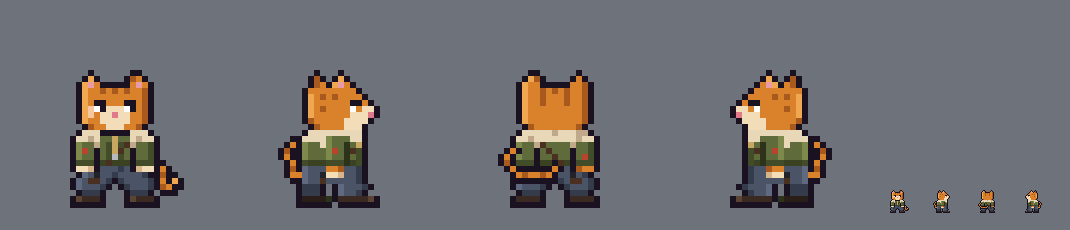
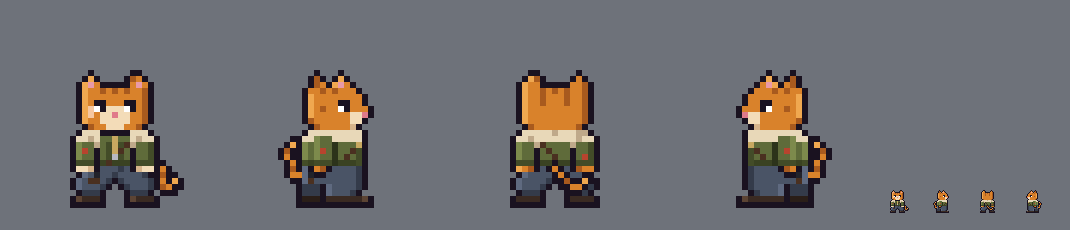
Mercenary cat: side face, paw and legs fixed; back-view tail moved
Claude-Session: https://claude.ai/code/session_01WZGEuQ1NEBVidT9MSQSZ2z

diff --git a/docs/art/cat-merc/crew/tools/cat.py b/docs/art/cat-merc/crew/tools/cat.py
@@ -61,10 +61,10 @@ TAIL = [((17, 15), "#"), ((17, 16), "O"), ((18, 16), "#"), ((17, 17), "o"), ((18
         ((17, 18), "O"), ((18, 18), "#"), ((17, 19), "o"), ((18, 19), "O"), ((19, 19), "#"), ((17, 20), "#"),
         ((18, 20), "#"), ((19, 18), "Y"), ((20, 18), "#"), ((19, 17), "#"), ((20, 19), "#"), ((19, 20), "#")]
 # from behind: the backs of the ears (the notched one now on our left), tabby stripes down the back of the head, the
-# collar all the way round, the strap coming over his left shoulder to his right hip, the patch and the holster on
-# our right, the backs of the paws, and the tail from under the jacket, swinging across his seat and curling up
-# beside his left side
-# (it's nearest to us, so it's drawn over him)
+# collar all the way round, the strap coming over his left shoulder, the patch on the sleeve on our right, the backs
+# of the paws, and the tail from under the jacket sweeping down across his right calf with a curl (it's nearest to us,
+# so it's drawn over him; heromedel: swung across his seat it looked like he was scratching his butt, and straight down
+# between his legs it read as crude). The holster is on his hip at the side, out of sight from here
 BACK = [
     ".....##......#.....",
     "....#Yo#....#O#....",
@@ -81,10 +81,10 @@ BACK = [
     "..#QJJcTJJJJcJJj#..",
     "..#QJJ#JTJJJ#JJj#..",
     "..#QJJ#JJTJJ#Jej#..",
-    "..#jjj#RRRTR#jjj#..",
+    "..#jjj#RRRRR#jjj#..",
     "..#YOo#PPpPP#oOO#..",
-    "...#qPPPPpPPXPp#...",
-    "..#qPPPPp#pPTTPp#..",
+    "...#qPPPPpPPPPp#...",
+    "..#qPPPPp#pPPPPp#..",
     "..#qPPPp#.#pPPPp#..",
     "...#ppp#...#ppp#...",
     "..#BBBB#...#BBBB#..",
@@ -98,30 +98,30 @@ SIDE = [
     "......#...#........",
     ".....#o#.#Y#.......",
     ".....#oO#YKO#......",
-    "....#OOOOOOOO#.....",
-    "....#YOoOoOOOO#....",
-    "....#YOOOOOO##O#...",
-    "....#YOoOOOOHOWW#..",
-    "....#YOOOOOOWWWN#..",
-    "....#oOOOOOWWWW#...",
-    ".....#oOOOOWWW#....",
+    "....#OOoOoOOO#.....",
+    "....#YOOOOOOOO#....",
+    "....#YOOOO##OO#....",
+    "....#YOoOOH#OOO#...",
+    "....#YOOOOOOWWN#...",
+    "....#oOOOOOOWW#....",
+    ".....#oOOOOOw#.....",
     "....#CCCCCCCCC#....",
-    "...#CCCCQJJJCC#....",
-    "...#QJJCQJJdJZ#....",
-    "...#QJJJQeJdTj#....",
-    "...#QJJJQJJdJj#....",
-    "...#jRRRjjjdRj#....",
-    "...#qPPPOOoPPp#....",
-    "...#qPPXWWwPPp#....",
-    "...#qPPTPPPPPp#....",
-    "...#ppp#.#qPPPp#...",
-    "...#ppp#.#qPPp#....",
-    "...#DDDDd#BBBBBb#..",
-    "...######.#######..",
+    "...#CCQJJCCCCC#....",
+    "...#QJQJJdJJJZ#....",
+    "...#QJQeJdJJTj#....",
+    "...#QJQJJdJTJj#....",
+    "...#jRjjjdRRRj#....",
+    "...#q#Oo#PPPPp#....",
+    "...#qX##PPPPPp#....",
+    "...#qTPPPPPPPp#....",
+    "...#ppp#qPPPPp#....",
+    "...#ppp#qPPPp#.....",
+    "...#DDD#BBBBBBb#...",
+    "...#############...",
 ]
 # the tails as paths of pixels from the root to the tip, outlined where they're drawn: (column, row) in the grid
 SIDE_TAIL = [(3, 17), (2, 17), (2, 16), (2, 15), (1, 14), (1, 13), (2, 12)]          # from the hip, curling up behind
-BACK_TAIL = [(9, 16), (8, 17), (7, 17), (6, 17), (5, 17), (4, 17), (3, 17), (2, 16), (1, 15), (1, 14), (2, 13)]
+BACK_TAIL = [(9, 16), (10, 17), (11, 18), (12, 19), (13, 19), (14, 18)]   # from the waist across his right calf, curling up
 FRAME, FLOOR = 35, 32
 VIEWS = {"down": (FIGURE, TAIL, None), "up": (BACK, None, BACK_TAIL), "right": (SIDE, None, SIDE_TAIL)}
 
@@ -143,7 +143,7 @@ def pixels(view="down"):
     if path:                                           # a tail drawn along a path, striped, with its own outline
         cells = [(left + i, top + j) for i, j in path]
         for n, q in enumerate(cells):
-            out[q] = KEY["o" if n % 3 == 2 else "O"]
+            out[q] = KEY["Y" if n == len(cells) - 1 else "o" if n % 3 == 2 else "O"]     # a pale tip
         for (x, y) in cells:
             for dx, dy in ((1, 0), (-1, 0), (0, 1), (0, -1)):
                 q = (x + dx, y + dy)

diff --git a/docs/art/cat-merc/crew/README.md b/docs/art/cat-merc/crew/README.md
@@ -26,9 +26,11 @@ tail's base a little detached at the hip.
 
 **Back and side views (2026-10-28):** `svg/cat-merc-up.svg`, `-right.svg` and `-left.svg` (the right mirrored),
 beside the front in `review/cat-merc-views.png`. From behind: the backs of the ears (the notched one now on our left),
-tabby stripes down the back of the head, the collar all round, the strap over his left shoulder, the patch and the
-holster on our right, the backs of the paws, and the tail from under the jacket swinging across his seat and curling up
-beside him. From the right: his right side (patch, holster), the near ear in front of the notched far one, the muzzle
-and nose out to the right, the near arm hanging over the jacket, the far leg and boot a step darker behind the near
-one, toes forward, the tail from the hip curling up behind. Blind check: every facing reads, and the four are
-consistent (7/10); the back view's tail is still its weakest part.
+tabby stripes down the back of the head, the collar all round, the strap over his left shoulder, the patch on our
+right, the backs of the paws, and the tail from under the jacket sweeping down across his right calf with a curl
+(heromedel: swung across his seat to his side it looked like he was scratching his butt; straight down between the
+legs read as crude); the holster is out of sight at his side. From the right: his right side (patch, holster), the
+near ear in front of the notched far one, a short muzzle under the eye with the nose at its tip (heromedel: the first
+face was oddly shaped, a tall beak-like muzzle), the arm hanging at the back of the hip with the paw there (heromedel:
+the paw on the front of the pants read as a broken kneecap), the far leg and boot a step darker behind the near one,
+toes forward, the tail from the hip curling up behind.
